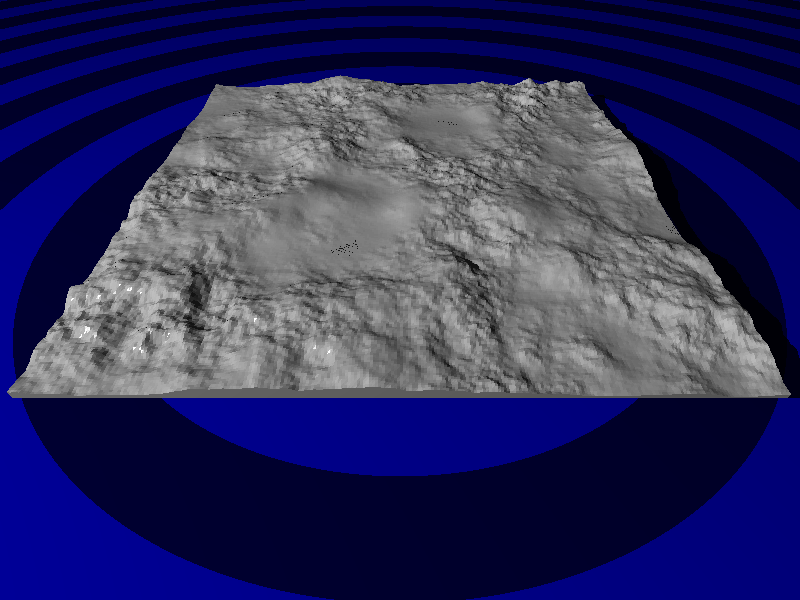
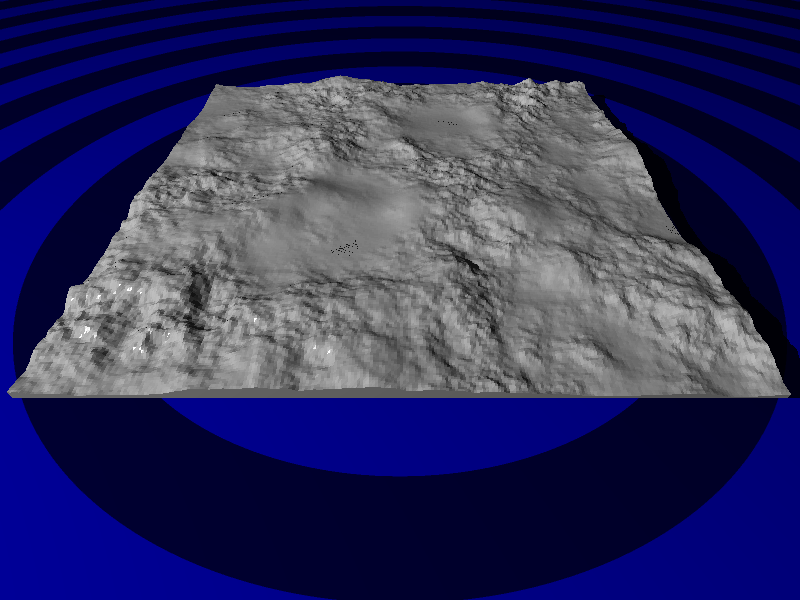
A render that failed used to report that it had worked
The renderer exited 0 whether or not a picture came out.  A scene that would not parse
printed its complaint and returned success; a render that threw printed the exception and
returned success.  Nothing downstream could tell the difference, so a sweep's `if ! dotnet
run` check could not see a failure and a gallery image could be silently lost -- which is
exactly how this was found, `heightfield.igl` fetching its height map from Wikimedia and
being handed a 429.

Its image is re-rendered here, the fetch having worked this time.

The tests put the exit code back after each case, and that is not tidiness: they run inside
the test host, so a failure code left standing is the code the whole run reports -- every
test passing and the run still failing.

diff --git a/Tests/TestExitCodes.cs b/Tests/TestExitCodes.cs
@@ -1,0 +1,102 @@
+using RayTracer.Commands;
+using RayTracer.Options;
+
+namespace Tests;
+
+[TestClass]
+public class TestExitCodes
+{
+    private string _directory;
+
+    [TestInitialize]
+    public void CreateDirectory()
+    {
+        _directory = Path.Combine(Path.GetTempPath(), Path.GetRandomFileName());
+
+        Directory.CreateDirectory(_directory);
+    }
+
+    [TestCleanup]
+    public void RemoveDirectory()
+    {
+        if (Directory.Exists(_directory))
+            Directory.Delete(_directory, true);
+    }
+
+    [TestMethod]
+    public void TestARenderThatWorkedReportsSuccess()
+    {
+        Assert.AreEqual(0, ExitCodeFor("""
+            context { no gamma }
+            camera { location [0, 0, -4]  look at [0, 0, 0] }
+            point light { location [2, 4, -4] }
+            sphere { material { pigment Red } }
+            """));
+    }
+
+    [TestMethod]
+    public void TestASceneThatWillNotParseReportsFailure()
+    {
+        // The parser prints its own complaint and hands back nothing, so there is no picture and
+        // nothing threw.  That silence is what used to be reported as success.
+        Assert.AreEqual(1, ExitCodeFor("""
+            context { no gamma }
+            camera { location [0, 0, -4]  look at [0, 0, 0] }
+            this is not a scene
+            """));
+    }
+
+    [TestMethod]
+    public void TestARenderThatThrewReportsFailure()
+    {
+        // A scene that parses and then falls over on its way to a picture -- here an image that is
+        // not there, which is the same shape as the fetch that failed and started all this.
+        Assert.AreEqual(1, ExitCodeFor("""
+            context { no gamma }
+            camera { location [0, 0, -4]  look at [0, 0, 0] }
+            point light { location [2, 4, -4] }
+            sphere { material { pigment image 'no-such-file-anywhere.png' } }
+            """));
+    }
+
+    /// <summary>
+    /// Renders the given scene the way the command line would, and reports what the process would
+    /// have exited with.
+    /// <para>
+    /// **The exit code is put back afterwards, and that is not tidiness.**  This runs inside the test
+    /// host, so a failure code left standing is the code the whole test run reports -- every test
+    /// passing and the run still failing, which is a genuinely baffling thing to be handed.
+    /// </para>
+    /// </summary>
+    private int ExitCodeFor(string scene)
+    {
+        string path = Path.Combine(_directory, "scene.igl");
+        int was = Environment.ExitCode;
+        StringWriter captured = new ();
+        TextWriter previously = Console.Out;
+
+        File.WriteAllText(path, scene);
+        Console.SetOut(captured);
+
+        try
+        {
+            Environment.ExitCode = 0;
+
+            RenderCommand.Render(new RenderOptions
+            {
+                InputFileName = path,
+                OutputFileName = Path.Combine(_directory, "out.png"),
+                Width = 40,
+                Height = 30
+            });
+
+            return Environment.ExitCode;
+        }
+        finally
+        {
+            Console.SetOut(previously);
+
+            Environment.ExitCode = was;
+        }
+    }
+}

diff --git a/Commands/RenderCommand.cs b/Commands/RenderCommand.cs
@@ -10,6 +10,22 @@ namespace RayTracer.Commands;
 public static class RenderCommand
 {
     /// <summary>
+    /// What the process reports when it could not produce the picture it was asked for.
+    /// <para>
+    /// **A failed render used to report success**, and that is worse than it sounds.  The message was
+    /// printed, so a person watching saw it; but anything running renders in bulk -- a batch, a
+    /// gallery sweep -- decides whether a render worked by its exit code, and was told every time
+    /// that it had.  A whole scene went missing from a sweep that way and the sweep said nothing.
+    /// </para>
+    /// <para>
+    /// This is set rather than thrown, and the process is left to end on its own, so that whatever
+    /// was already written stays written and the error keeps the place in the output where it
+    /// happened.
+    /// </para>
+    /// </summary>
+    private const int Failed = 1;
+
+    /// <summary>
     /// This method provides the meat of our "render" command line verb.
     /// </summary>
     /// <param name="options">The options specified by the user on the command line.</param>
@@ -22,11 +38,23 @@ public static class RenderCommand
             LanguageParser parser = new LanguageParser(options.InputFileName);
             ImageRenderer renderer = parser.Parse();
 
-            renderer?.Render(options);
+            // A scene that would not parse comes back as nothing at all, and the parser has already
+            // said why.  There is no picture, so this did not succeed, and it must not report that
+            // it did.
+            if (renderer is null)
+            {
+                Environment.ExitCode = Failed;
+
+                return;
+            }
+
+            renderer.Render(options);
         }
         catch (Exception exception)
         {
             Terminal.ShowException(exception);
+
+            Environment.ExitCode = Failed;
         }
     }
 }

diff --git a/Program.cs b/Program.cs
@@ -11,4 +11,14 @@ JsonConvert.DefaultSettings = () => new JsonSerializerSettings
 Parser.Default.ParseArguments<RenderOptions, FontsOptions, LibrariesOptions>(args)
     .WithParsed<RenderOptions>(RenderCommand.Render)
     .WithParsed<FontsOptions>(FontsCommand.ManageFonts)
-    .WithParsed<LibrariesOptions>(LibrariesCommand.ManageLibraries);
+    .WithParsed<LibrariesOptions>(LibrariesCommand.ManageLibraries)
+    // A command line that was not understood -- a verb misspelled, a file that is not there -- is
+    // reported by the parser itself and then leaves us with nothing to do.  Saying so in the exit
+    // code as well is what lets a script tell "it ran" from "it did not", which the message alone
+    // cannot do.  Asking for help or for the version is not a failure, and both arrive here.
+    .WithNotParsed(errors =>
+    {
+        if (!errors.Any(error => error is HelpRequestedError or HelpVerbRequestedError or
+                VersionRequestedError))
+            Environment.ExitCode = 1;
+    });
